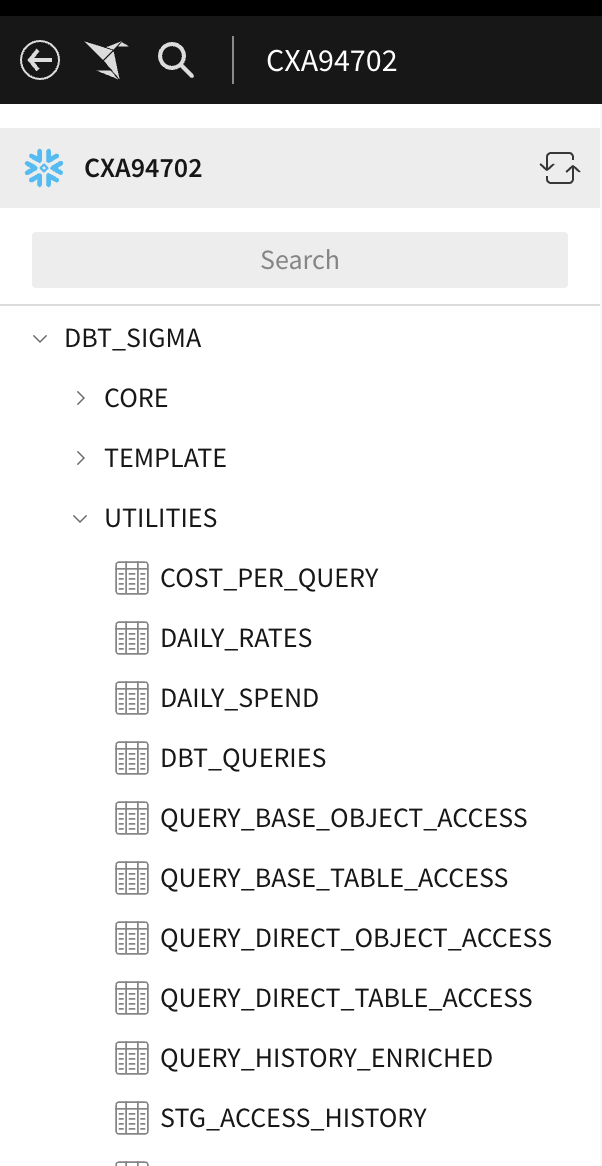
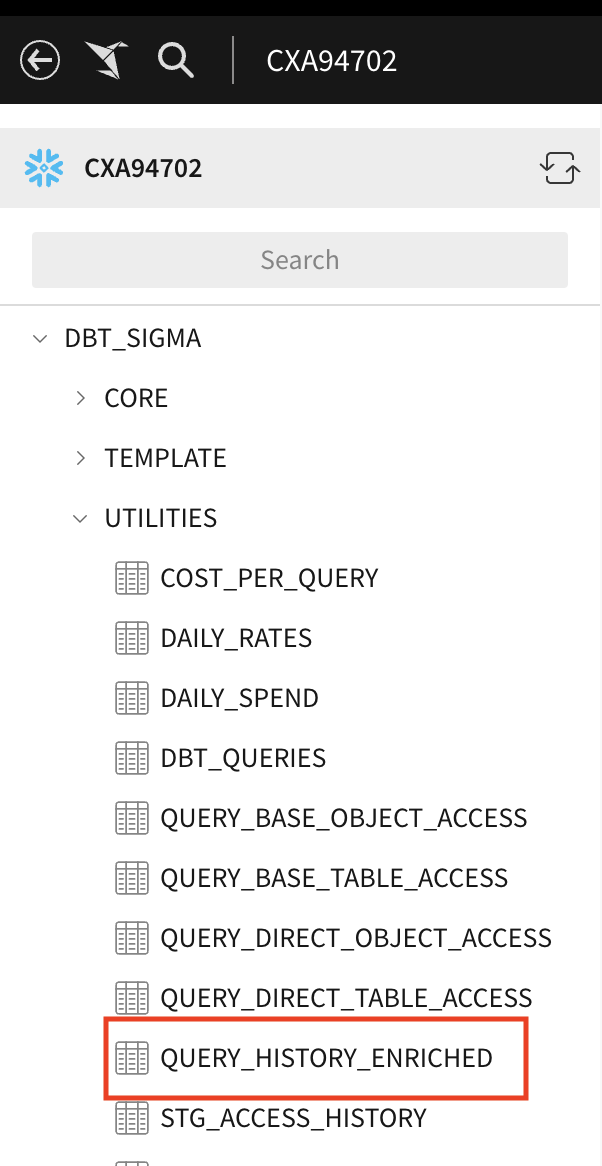
updated some images and added qhe sql

Changed region(s): [[0.1495, 0.8645, 0.897, 0.9571]]

diff --git a/site/sigmaguides/src/snowflake_cost_per_query_template/snowflake_cost_per_query_template.md b/site/sigmaguides/src/snowflake_cost_per_query_template/snowflake_cost_per_query_template.md
@@ -57,18 +57,26 @@ Duration: 5
 <aside class="positive">
 <strong>IMPORTANT:</strong><br> If your company does not use dbt, skip this page and advance to step 3 
 </aside>
-One way to create the `query_history_enriched` table is by deploying the <a href="(https://github.com/get-select/dbt-snowflake-monitoring/tree/main">dbt-snowflake-monitoring</a> dbt package from Select(https://select.dev/).
+
+One way to create the `query_history_enriched` table is by deploying the <a href="(https://github.com/get-select/dbt-snowflake-monitoring/tree/main">dbt-snowflake-monitoring</a> dbt package from <a href="https://select.dev/">Select</a>.
 
 This package has a model called **query_history_enriched** that enriches the Snowflake `query_history` table with query cost information.  It will calculate the actual cost (in currency) for every query run in your Snowflake account.
 
 Once the package has been deployed, Sigma needs to be able to access the table(s) created.  
 <ol>
   <li>Identify the role used in your Sigma connection.
-  <li>run the `grant select on table query_history_enriched to role {your_sigma_role}` command. Note that you may need to grant usage on the database and schema that host this table.
+  <li>Run the following command: 
 </ol>   
 
+```plaintext
+grant select on table {database name}.{schema name}.query_history_enriched to role {role used in Sigma connection};
+```
+Note that you may need to grant usage on the database and schema that host this table.
+
 Verify that you can see the new table(s) in the Sigma connection browser.
-![img_qhe_in_connection](assets/qhe_in_connection.png)
+<br/>
+<img src="assets/qhe_in_connection.png" width=300>
+<br/>
 
 Then, advance to step 4.
 
@@ -97,26 +105,32 @@ grant select on table {database name}.{schema name}.query_history_enriched to ro
 You may also need to grant usage on the database/schema to the role used in the Sigma connection.
 
 Verify that you can see the new table(s) in the Sigma connection browser.
-![img_qhe_in_connection](assets/qhe_in_connection.png)
+<img src="assets/qhe_in_connection.png" width=300>
 
 ![Footer](assets/sigma_footer.png)
 <!-- END OF SECTION-->
 
 ## Deploying the Template
 Duration: 5
-Once you have created the `query_history_enriched` table, go to Sigma.
 
-From the home page, navigate to the **Templates** section, then to **External Templates**.
+Once you have created the `query_history_enriched` table, go to Sigma.
+From the home page, navigate to the **Templates** section, then to **External**.
 
 Click on the `Snowflake Cost per Query` template.
-![img_template_in_menu](assets/template_in_menu.png)
-
+<br/>
+<img src="assets/template_in_menu.png" width=700>
+<br/>
+<br/>
 You will be prompted to swap data sources. Click **Swap Now**.
-![img_swap_source_prompt](assets/swap_source_prompt.png)
-
+<br/>
+<img src="assets/swap_source_prompt.png" width=500>
+<br/>
+<br/>
 Then verify that Sigma has found the `query_history_enriched` table and click **Swap Now**.
-![img_sources_matched](assets/sources_matched.png)
-
+<br/>
+<img src="assets/sources_matched.png" width=500>
+<br/>
+<br/>
 Click **Save As** and give your workbook a title.
 
 And that's all there is to it!  You should now see the Snowflake Cost per Query Template on top of your own data. 
@@ -130,6 +144,7 @@ And that's all there is to it!  You should now see the Snowflake Cost per Query 
 Duration: 0
 
 In this QuickStart we created the `query_history_enriched` table and launched Sigma's **Snowflake Cost per Query** template.
+<br>
 <!-- THE FOLLOWING ADDITIONAL RESOURCES IS REQUIRED AS IS FOR ALL QUICKSTARTS -->
 **Additional Resource Links**
 
